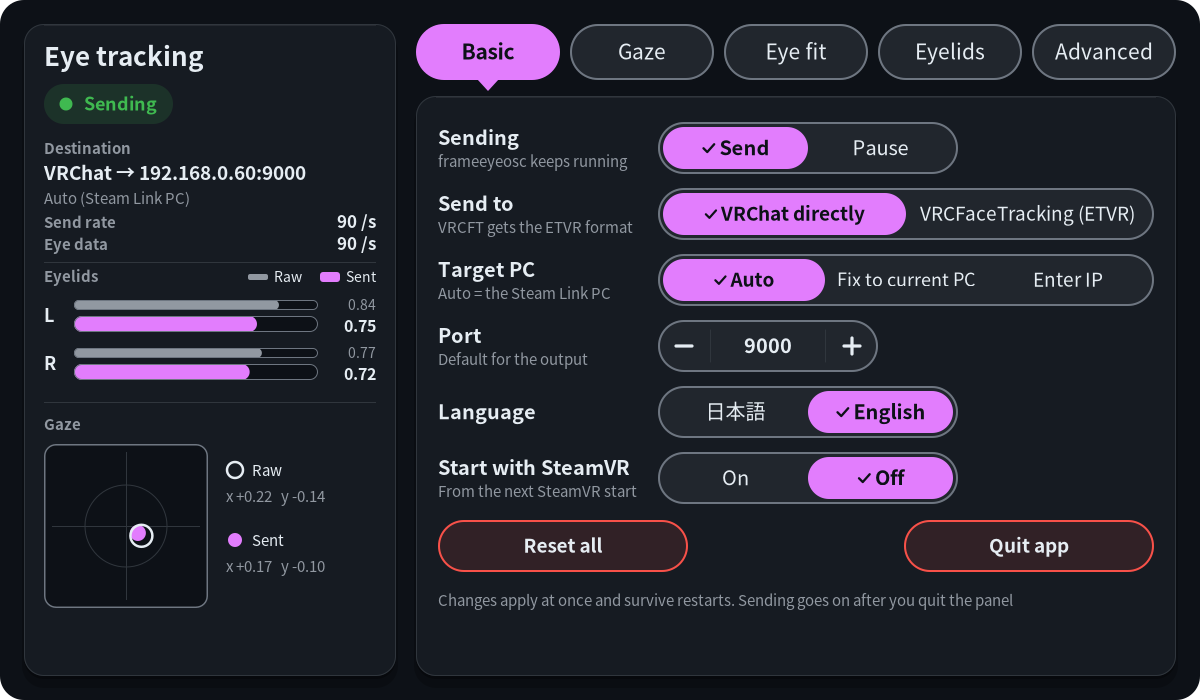
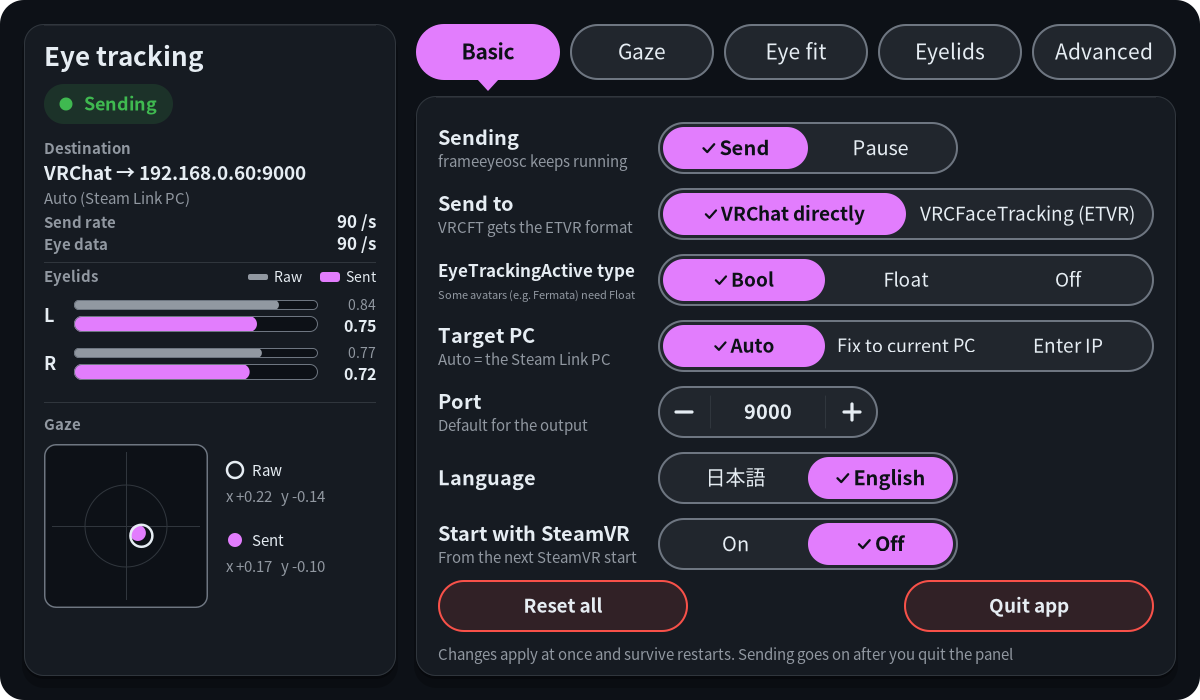
EyeTrackingActive を bool・float・送らないから選べるようにする（eye_tracking_active）
- Fermata のフェイストラッキングなど、EyeTrackingActive を float で持つアバターは bool が届くと止まるため。"float" は 1.0 / 0.0、"off" は止めたときや目を見失ったときの 1 回の「無効」も送らない。既定は今までどおり "bool"、ETVR ではもともと送らない
- --eye-tracking-active、基本タブの「EyeTrackingActive の型」（ETVR のときは灰色）。基本タブの下の余白を詰める
- 送るメッセージ・止めたとき・見失ったときのテスト、README・CHANGELOG・スクリーンショット

diff --git a/src/main.rs b/src/main.rs
@@ -8,7 +8,7 @@ mod status;
 
 use capture::{Capture, CaptureResult, CaptureState};
 use clap::{CommandFactory, FromArgMatches, Parser};
-use config::{Config, LidFit, OutputKind, Reload, Settings};
+use config::{ActiveType, Config, LidFit, OutputKind, Reload, Settings};
 use memmap2::{MmapMut, MmapOptions};
 use rosc::{OscMessage, OscPacket, OscType, encoder};
 use status::{CalibrationStatus, RawValues, SentValues, Status, StatusFile};
@@ -120,6 +120,10 @@ struct Args {
     /// What to send: VRChat avatar parameters, or VRCFaceTracking's ETVR Tracking Module format
     #[arg(long, value_enum, default_value_t = OutputKind::Vrchat)]
     output: OutputKind,
+    /// How EyeTrackingActive is sent in VRChat mode: a bool, a float (1.0 / 0.0; some avatars, e.g.
+    /// Fermata's, need it), or not at all
+    #[arg(long, value_enum, default_value_t = ActiveType::Bool)]
+    eye_tracking_active: ActiveType,
     /// OSC destination as HOST:PORT, or "auto" for the PC that Steam Link is streaming from
     #[arg(long, default_value = "auto")]
     target: String,
@@ -1282,7 +1286,7 @@ fn osc_messages(settings: &Settings, sample: &Sample) -> Vec<(String, OscType)> 
     ];
     let mut messages = Vec::with_capacity(9);
     if settings.output == OutputKind::Vrchat {
-        messages.push((format!("{prefix}/EyeTrackingActive"), OscType::Bool(true)));
+        messages.extend(active_message(settings, true));
         values.extend([("EyeX", x), ("EyeY", y)]);
     }
     messages.extend(
@@ -1293,18 +1297,30 @@ fn osc_messages(settings: &Settings, sample: &Sample) -> Vec<(String, OscType)> 
     messages
 }
 
-fn send_inactive(output: &mut Output, prefix: &str) -> Result<(), Box<dyn Error>> {
-    output.send(
-        format!("/avatar/parameters{prefix}/EyeTrackingActive"),
-        vec![OscType::Bool(false)],
-    )
+/// `EyeTrackingActive` as the settings want it sent (a bool, a float, or nothing).
+fn active_message(settings: &Settings, active: bool) -> Option<(String, OscType)> {
+    let value = match settings.eye_tracking_active {
+        ActiveType::Bool => OscType::Bool(active),
+        ActiveType::Float => OscType::Float(if active { 1.0 } else { 0.0 }),
+        ActiveType::Off => return None,
+    };
+    Some((format!("/avatar/parameters{}/EyeTrackingActive", settings.prefix), value))
+}
+
+/// The one-time "not active" on pausing, switching away or losing tracking (nothing with "off").
+fn send_inactive(output: &mut Output, settings: &Settings) -> Result<(), Box<dyn Error>> {
+    match active_message(settings, false) {
+        Some((addr, value)) => output.send(addr, vec![value]),
+        None => Ok(()),
+    }
 }
 
 /// Where VRChat is being told that eye tracking is active, if anywhere. When this changes,
 /// the old destination gets a final "inactive" so the avatar's eyes do not freeze.
-fn vrchat_stream(settings: &Settings) -> Option<(&str, u16, &str)> {
-    (settings.sending && settings.output == OutputKind::Vrchat)
-        .then(|| (settings.host.as_str(), settings.port(), settings.prefix.as_str()))
+fn vrchat_stream(settings: &Settings) -> Option<(&str, u16, &str, ActiveType)> {
+    (settings.sending && settings.output == OutputKind::Vrchat).then(|| {
+        (settings.host.as_str(), settings.port(), settings.prefix.as_str(), settings.eye_tracking_active)
+    })
 }
 
 /// Why the samples stopped, for the log line when tracking is lost.
@@ -1353,7 +1369,7 @@ impl Bridge {
         }
         let stream = vrchat_stream(&self.settings);
         if self.active_since.is_some() && stream.is_some() && stream != vrchat_stream(&settings) {
-            send_inactive(&mut self.output, &self.settings.prefix)?;
+            send_inactive(&mut self.output, &self.settings)?;
         }
         self.output.set_target(Target::of(&settings));
         self.smoother.configure(&settings);
@@ -1433,7 +1449,7 @@ impl Bridge {
     fn on_lost(&mut self, reason: &str) -> Result<(), Box<dyn Error>> {
         eprintln!("Eye tracking stopped ({reason})");
         if vrchat_stream(&self.settings).is_some() {
-            send_inactive(&mut self.output, &self.settings.prefix)?;
+            send_inactive(&mut self.output, &self.settings)?;
         }
         self.smoother.reset();
         self.active_since = None;
@@ -2233,6 +2249,68 @@ mod tests {
         );
         assert_eq!(messages[0].1, OscType::Bool(true));
         assert_eq!(messages[6].1, OscType::Float(0.75));
+    }
+
+    #[test]
+    fn eye_tracking_active_goes_as_a_bool_a_float_or_not_at_all() {
+        let with = |kind| Settings {
+            eye_tracking_active: kind,
+            ..settings()
+        };
+        let active = "/avatar/parameters/FT/EyeTrackingActive";
+        // While sending
+        let bool_messages = sent(&with(ActiveType::Bool));
+        assert_eq!(bool_messages[0], (active.to_owned(), OscType::Bool(true)));
+        let float_messages = sent(&with(ActiveType::Float));
+        assert_eq!(float_messages[0], (active.to_owned(), OscType::Float(1.0)));
+        assert_eq!(float_messages.len(), 9);
+        let off_messages = sent(&with(ActiveType::Off));
+        assert_eq!(off_messages.len(), 8);
+        assert!(off_messages.iter().all(|(addr, _)| addr != active));
+        // The eye values are the same in every mode
+        assert_eq!(bool_messages[1..], float_messages[1..]);
+        assert_eq!(bool_messages[1..], off_messages[..]);
+        // The one-time "not active" on pausing or losing tracking
+        assert_eq!(active_message(&with(ActiveType::Bool), false), Some((active.to_owned(), OscType::Bool(false))));
+        assert_eq!(active_message(&with(ActiveType::Float), false), Some((active.to_owned(), OscType::Float(0.0))));
+        assert_eq!(active_message(&with(ActiveType::Off), false), None);
+        // Changing the type ends the old stream (it gets its own last "not active")
+        assert_ne!(vrchat_stream(&with(ActiveType::Bool)), vrchat_stream(&with(ActiveType::Float)));
+        // ETVR never gets it
+        let etvr = Settings {
+            output: OutputKind::Etvr,
+            ..with(ActiveType::Float)
+        };
+        assert!(sent(&etvr).iter().all(|(addr, _)| !addr.ends_with("EyeTrackingActive")));
+        assert!(vrchat_stream(&etvr).is_none());
+    }
+
+    #[test]
+    fn a_pause_or_lost_tracking_sends_not_active_only_when_asked() {
+        // A real socket: pausing with "float" sends 0.0, with "off" nothing
+        let listener = UdpSocket::bind("127.0.0.1:0").unwrap();
+        listener.set_read_timeout(Some(Duration::from_millis(500))).unwrap();
+        let port = listener.local_addr().unwrap().port();
+        let mut output = Output::new(Target::Fixed { host: "127.0.0.1".into(), port });
+        output.refresh();
+        let float = Settings {
+            eye_tracking_active: ActiveType::Float,
+            ..settings()
+        };
+        send_inactive(&mut output, &float).unwrap();
+        let mut buffer = [0u8; 256];
+        let size = listener.recv(&mut buffer).unwrap();
+        let (_, packet) = rosc::decoder::decode_udp(&buffer[..size]).unwrap();
+        let OscPacket::Message(message) = packet else { panic!("not a message") };
+        assert_eq!(message.addr, "/avatar/parameters/FT/EyeTrackingActive");
+        assert_eq!(message.args, [OscType::Float(0.0)]);
+        let off = Settings {
+            eye_tracking_active: ActiveType::Off,
+            ..settings()
+        };
+        send_inactive(&mut output, &off).unwrap();
+        listener.set_read_timeout(Some(Duration::from_millis(200))).unwrap();
+        assert!(listener.recv(&mut buffer).is_err());
     }
 
     #[test]

diff --git a/src/config.rs b/src/config.rs
@@ -48,6 +48,19 @@ impl OutputKind {
     }
 }
 
+/// How `EyeTrackingActive` goes out in VRChat mode (VRCFaceTracking's templates use a bool; some
+/// avatars, e.g. Fermata's face tracking setups, declare it as a float and stop on a bool).
+#[derive(Clone, Copy, Debug, PartialEq, Eq, Serialize, Deserialize, clap::ValueEnum)]
+#[serde(rename_all = "lowercase")]
+pub enum ActiveType {
+    /// true / false
+    Bool,
+    /// 1.0 / 0.0
+    Float,
+    /// never sent
+    Off,
+}
+
 /// Everything that can change while running. Field names are the config.json keys, and the
 /// defaults match the command-line defaults in `Args`.
 #[derive(Clone, Debug, PartialEq, Serialize, Deserialize)]
@@ -61,6 +74,7 @@ pub struct Settings {
     pub port: Option<u16>,
     /// Without a trailing slash; empty for no prefix.
     pub prefix: String,
+    pub eye_tracking_active: ActiveType,
     pub raw: bool,
     pub gaze_min_cutoff: f32,
     pub gaze_beta: f32,
@@ -129,6 +143,7 @@ impl Default for Settings {
             host: "auto".into(),
             port: None,
             prefix: "/FT".into(),
+            eye_tracking_active: ActiveType::Bool,
             raw: false,
             gaze_min_cutoff: 0.4,
             gaze_beta: 0.8,
@@ -421,7 +436,7 @@ pub fn apply_args(settings: &mut Settings, args: &Args, given: &HashSet<String>)
             }
         )*};
     }
-    pin!(output);
+    pin!(output, eye_tracking_active);
     if given.contains("target") {
         locked.push("host");
         // main() has already rejected anything that is neither "auto" nor HOST:PORT.
@@ -658,6 +673,20 @@ mod tests {
         let (settings, locked) = merged("{}", &[]).unwrap();
         assert_eq!(settings, Settings::default());
         assert!(locked.is_empty());
+        // The option's own default is the setting's
+        let (args, _) = cli(&[]);
+        assert_eq!(args.eye_tracking_active, Settings::default().eye_tracking_active);
+    }
+
+    #[test]
+    fn eye_tracking_active_is_bool_float_or_off() {
+        for (text, kind) in [("bool", ActiveType::Bool), ("float", ActiveType::Float), ("off", ActiveType::Off)] {
+            let (settings, _) = merged(&format!(r#"{{"eye_tracking_active": "{text}"}}"#), &[]).unwrap();
+            assert_eq!(settings.eye_tracking_active, kind);
+        }
+        assert!(merged(r#"{"eye_tracking_active": "int"}"#, &[]).is_err());
+        let (settings, locked) = merged(r#"{"eye_tracking_active": "off"}"#, &["--eye-tracking-active", "float"]).unwrap();
+        assert_eq!((settings.eye_tracking_active, locked), (ActiveType::Float, vec!["eye_tracking_active"]));
     }
 
     #[test]

diff --git a/panel/src/panel.cpp b/panel/src/panel.cpp
@@ -1049,6 +1049,23 @@ void EyePanel::drawBasic(const Pen& pen, const UiText& t, const PanelModel& m, c
                       output == kOutputEtvr ? 1 : (output == kOutputVrchat ? 0 : -1), 19, locked);
     }
     y += kRowH + kRowGap;
+    // How EyeTrackingActive goes out (VRChat only: greyed out for ETVR, which never gets it)
+    {
+        const bool locked = v.locked(key::kEyeTrackingActive);
+        const bool vrchat = v.text(key::kOutput) != kOutputEtvr;
+        const std::string type = v.text(key::kEyeTrackingActive);
+        int selected = -1;
+        for (int i = 0; i < 3; ++i) {
+            if (type == kActiveTypes[i]) selected = i;
+        }
+        drawRowLabel(pen, t, y, kRowH, t.rowActiveType, t.hintActiveType, locked);
+        drawSegmented(pen, kControlX, y + cy, kControlW, kControlH,
+                      {{"Bool", {PanelAction::SetActiveType, key::kEyeTrackingActive, 0}},
+                       {"Float", {PanelAction::SetActiveType, key::kEyeTrackingActive, 1}},
+                       {t.activeOff, {PanelAction::SetActiveType, key::kEyeTrackingActive, 2}}},
+                      selected, 19, locked || !vrchat);
+    }
+    y += kRowH + kRowGap;
     // Target PC: automatic, fixed to the PC frameeyeosc sends to now, or typed on the keypad; any host set by hand
     // shows in the third choice
     {
@@ -1107,7 +1124,7 @@ void EyePanel::drawBasic(const Pen& pen, const UiText& t, const PanelModel& m, c
                        {t.off, {PanelAction::AutostartOff, nullptr, 0}, usable}},
                       a == Autostart::Enabled ? 0 : (a == Autostart::Disabled ? 1 : -1), 20);
     }
-    y += kRowH + kRowGap + 8;
+    y += kRowH + kRowGap + 2;
     // Reset all / quit (both ask for a second press)
     for (int i = 0; i < 2; ++i) {
         const bool isQuit = i == 1;
@@ -1123,7 +1140,7 @@ void EyePanel::drawBasic(const Pen& pen, const UiText& t, const PanelModel& m, c
         textCentered(pen, x + w / 2, centerBaseline(y, kControlH, size), label, size, armed ? kOnAccent : kText, true);
         addButton(hit, x, y, w, kControlH);
     }
-    y += kControlH + 34;
+    y += kControlH + 28;
     const std::vector<std::string> lines = wrapText(pen, t.footer, 15, false, kInnerRight - kInnerX, 2);
     for (size_t i = 0; i < lines.size(); ++i) pen.text(kInnerX, y + i * 22, lines[i], 15, kTextMuted);
 }

diff --git a/panel/src/config.h b/panel/src/config.h
@@ -44,6 +44,7 @@ constexpr const char* kOutput = "output";
 constexpr const char* kHost = "host";
 constexpr const char* kPort = "port";
 constexpr const char* kPrefix = "prefix";
+constexpr const char* kEyeTrackingActive = "eye_tracking_active";
 constexpr const char* kRaw = "raw";
 constexpr const char* kGazeMinCutoff = "gaze_min_cutoff";
 constexpr const char* kGazeBeta = "gaze_beta";
@@ -98,6 +99,8 @@ constexpr const char* kUpdateCheck = "update_check";  ///< panel only: look for 
 /** Output types (the "output" key). */
 constexpr const char* kOutputVrchat = "vrchat";
 constexpr const char* kOutputEtvr = "etvr";
+/** eye_tracking_active values: how EyeTrackingActive is sent in VRChat mode */
+constexpr const char* kActiveTypes[3] = {"bool", "float", "off"};
 /** Default ports of the output types (used while "port" is null). */
 constexpr int kPortVrchat = 9000;
 constexpr int kPortEtvr = 8889;

diff --git a/panel/src/i18n.cpp b/panel/src/i18n.cpp
@@ -66,6 +66,9 @@ UiText makeJapanese() {
     t.hintOutput = "VRCFT へは ETVR 形式";
     t.outputVrchat = "VRChat に直接";
     t.outputEtvr = "VRCFaceTracking（ETVR）";
+    t.rowActiveType = "EyeTrackingActive の型";
+    t.hintActiveType = "Fermata などのアバターは Float";
+    t.activeOff = "送らない";
     t.rowTarget = "送り先の PC";
     t.hintTarget = "自動 = Steam Link の相手";
     t.targetAuto = "自動";
@@ -359,6 +362,9 @@ UiText makeEnglish() {
     t.hintOutput = "VRCFT gets the ETVR format";
     t.outputVrchat = "VRChat directly";
     t.outputEtvr = "VRCFaceTracking (ETVR)";
+    t.rowActiveType = "EyeTrackingActive type";
+    t.hintActiveType = "Some avatars (e.g. Fermata) need Float";
+    t.activeOff = "Off";
     t.rowTarget = "Target PC";
     t.hintTarget = "Auto = the Steam Link PC";
     t.targetAuto = "Auto";

diff --git a/panel/src/main.cpp b/panel/src/main.cpp
@@ -1087,6 +1087,12 @@ void applyHit(const PanelHit& hit, PanelModel& model, EyePanel& panel, Autostart
             openPrompt = output;
             break;
         }
+        case PanelAction::SetActiveType: {
+            if (hit.arg < 0 || hit.arg > 2) return;
+            const std::string type = kActiveTypes[hit.arg];
+            change = [type](JsonValue& root) { root.set(key::kEyeTrackingActive, JsonValue::makeString(type)); };
+            break;
+        }
         case PanelAction::Preset: {
             if (hit.arg < 0 || hit.arg > 2) return;
             const GazePreset preset = gazePresets()[hit.arg];

diff --git a/panel/src/panel.h b/panel/src/panel.h
@@ -23,6 +23,7 @@ enum class PanelAction {
     FixHost,           ///< host = the IP frameeyeosc sends to now
     PortDefault,       ///< port = null
     SetOutput,         ///< output = arg (0 vrchat, 1 etvr), port = null, then ask about the recommendation
+    SetActiveType,     ///< eye_tracking_active = kActiveTypes[arg] (bool, float, off)
     Preset,            ///< gaze smoothing preset arg (0 light, 1 medium, 2 strong)
     NumberOn,          ///< key = its default, or its onNumber if that is off (for numbers where 0 means off)
     NumberOff,         ///< key = 0

diff --git a/panel/src/config.cpp b/panel/src/config.cpp
@@ -144,6 +144,7 @@ const std::vector<SettingSpec>& settingSpecs() {
         {key::kHost, SettingType::String, 0, "auto", 0, 0, 0, 0},
         {key::kPort, SettingType::NullableInteger, 0, "", 1, 65535, 1, 0},
         {key::kPrefix, SettingType::String, 0, "/FT", 0, 0, 0, 0},
+        {key::kEyeTrackingActive, SettingType::String, 0, "bool", 0, 0, 0, 0},
         {key::kRaw, SettingType::Bool, 0, "", 0, 1, 1, 0},
         {key::kGazeMinCutoff, SettingType::Number, 0.4, "", 0.05, 5.0, 0.05, 2},
         {key::kGazeBeta, SettingType::Number, 0.8, "", 0.0, 10.0, 0.1, 2},

diff --git a/panel/src/i18n.h b/panel/src/i18n.h
@@ -77,6 +77,9 @@ struct UiText {
     const char* hintOutput;
     const char* outputVrchat;
     const char* outputEtvr;
+    const char* rowActiveType;      ///< how EyeTrackingActive is sent
+    const char* hintActiveType;
+    const char* activeOff;
     const char* rowTarget;
     const char* hintTarget;
     const char* targetAuto;

diff --git a/README.ja.md b/README.ja.md
@@ -23,7 +23,7 @@ https://github.com/user-attachments/assets/f8969485-161b-40d4-b9e4-689dee6d1955
 
 - 開発者モードを有効にして SSH で入れる Steam Frame（設定 → システム → 開発者モードを有効化、開発者の項目でパスワードを設定）。SSH を有効にすると、同じネットワークにいてパスワードを知っている人は誰でもヘッドセットに入れるので、推測されにくいパスワードにしてください
 - Steam Link でストリーミングしている PC 版 VRChat（Action Menu → Options → OSC → Enabled）
-- VRCFaceTracking の目のパラメータ（`FT/v2/EyeLeftX`、`EyeLidLeft` など）を float で持つアバター。VRChat に直接送るときは、パラメータをビットに詰める「バイナリパラメータ」のアバターには対応していません
+- VRCFaceTracking の目のパラメータ（`FT/v2/EyeLeftX`、`EyeLidLeft` など）を float で持つアバター。VRChat に直接送るときは、パラメータをビットに詰める「バイナリパラメータ」のアバターには対応していません。`EyeTrackingActive` は bool で送ります。これを float で持つアバター（Fermata のフェイストラッキングのセットアップなど）は bool が届くと止まるので、基本タブの「EyeTrackingActive の型」で［Float］を選んでください（`eye_tracking_active`）。［送らない］にすると送りません
 - VRCFaceTracking（ETVR）モードで使うときは、PC に VRCFaceTracking と ETVR Tracking Module
 
 ## インストール
@@ -96,11 +96,12 @@ sudo は要りません。全部ホームフォルダ（`~/.local/bin`、`~/.con
 
 | キー | オプション | 既定値 | 内容 |
 |---|---|---|---|
-| `sending` | | `true` | `false` で送信を一時停止（VRChat モードでは `EyeTrackingActive=false` を 1 回送る） |
+| `sending` | | `true` | `false` で送信を一時停止（VRChat モードでは `EyeTrackingActive` の「無効」を `eye_tracking_active` の型で 1 回送る） |
 | `output` | `--output` | `"vrchat"` | `"vrchat"` は VRChat にアバターパラメータを送る、`"etvr"` は VRCFaceTracking の ETVR Tracking Module に送る |
 | `host` | `--target` | `"auto"` | `"auto"` は Steam Link の接続先 PC。それ以外は IP アドレスかホスト名（ポートは付けない） |
 | `port` | `--port`、`--target` | `null` | `null` は `vrchat` なら 9000、`etvr` なら 8889 |
 | `prefix` | `--prefix` | `"/FT"` | パラメータ名の頭。`""` で頭なし |
+| `eye_tracking_active` | `--eye-tracking-active` | `"bool"` | VRChat モードで `EyeTrackingActive` をどう送るか: `"bool"`（true / false）、`"float"`（1.0 / 0.0。Fermata などのアバターはこちら）、`"off"`（送らない。止めたときや目を見失ったときの 1 回の「無効」も送らない）。ETVR モードではもともと送らない |
 | `raw` | `--raw` | `false` | スムージングしない。時間を使う処理（途切れ消し、視線を止める、品質チェック、閉じたまま保つ、真下で左右を止める）もしない |
 | `gaze_min_cutoff` | `--gaze-min-cutoff` | `0.4` | 下げるほど止まっている時の視線が安定（その分遅れる） |
 | `gaze_beta` | `--gaze-beta` | `0.8` | 上げるほど素早い視線の動きに遅れず付いていく |

diff --git a/README.md b/README.md
@@ -23,7 +23,7 @@ This is a fork of [konsti219/frameeyeosc](https://github.com/konsti219/frameeyeo
 
 - A Steam Frame with Developer Mode on and SSH access (Settings > System > Developer Mode, then set a password under Developer). Choose a strong password: with SSH on, anyone on your network who knows it can log in to the headset.
 - PC VRChat streamed with Steam Link, OSC enabled in VRChat (Action Menu > Options > OSC > Enabled).
-- An avatar with VRCFaceTracking eye parameters (`FT/v2/EyeLeftX`, `EyeLidLeft`, ...) as floats. Avatars that pack parameters into binary bits are not supported when sending to VRChat directly.
+- An avatar with VRCFaceTracking eye parameters (`FT/v2/EyeLeftX`, `EyeLidLeft`, ...) as floats. Avatars that pack parameters into binary bits are not supported when sending to VRChat directly. frameeyeosc also sends `EyeTrackingActive` as a bool; some avatars (for example Fermata's face tracking setups) declare it as a float and stop tracking on a bool. For those, choose "Float" under "EyeTrackingActive type" on the Basic tab (`eye_tracking_active`), or "Off" to not send it at all.
 - For the VRCFaceTracking (ETVR) mode: VRCFaceTracking on the PC with the ETVR Tracking Module.
 
 ## Install
@@ -96,11 +96,12 @@ Settings are in `~/.config/frameeyeosc/config.json`. The panel writes it, and yo
 
 | Key | Option | Default | What it does |
 |---|---|---|---|
-| `sending` | | `true` | `false` pauses sending (in VRChat mode `EyeTrackingActive=false` is sent once) |
+| `sending` | | `true` | `false` pauses sending (in VRChat mode `EyeTrackingActive=false` is sent once, as `eye_tracking_active` says) |
 | `output` | `--output` | `"vrchat"` | `"vrchat"` sends avatar parameters to VRChat, `"etvr"` sends to VRCFaceTracking's ETVR Tracking Module |
 | `host` | `--target` | `"auto"` | `"auto"` = the PC Steam Link is streaming from, else an IP address or host name without a port |
 | `port` | `--port`, `--target` | `null` | `null` = 9000 for `vrchat`, 8889 for `etvr` |
 | `prefix` | `--prefix` | `"/FT"` | Parameter name prefix; `""` for none |
+| `eye_tracking_active` | `--eye-tracking-active` | `"bool"` | How `EyeTrackingActive` is sent in VRChat mode: `"bool"` (true / false), `"float"` (1.0 / 0.0; some avatars, e.g. Fermata's, need it) or `"off"` (never, not even the one-time "not active" on pausing or losing tracking). ETVR mode never sends it |
 | `raw` | `--raw` | `false` | No smoothing, and none of the time-based steps (glitch removal, gaze holding, the quality check, blink hold, holding the sideways gaze far down) |
 | `gaze_min_cutoff` | `--gaze-min-cutoff` | `0.4` | Lower = steadier gaze at rest, more lag |
 | `gaze_beta` | `--gaze-beta` | `0.8` | Higher = follows fast eye movements with less lag |
